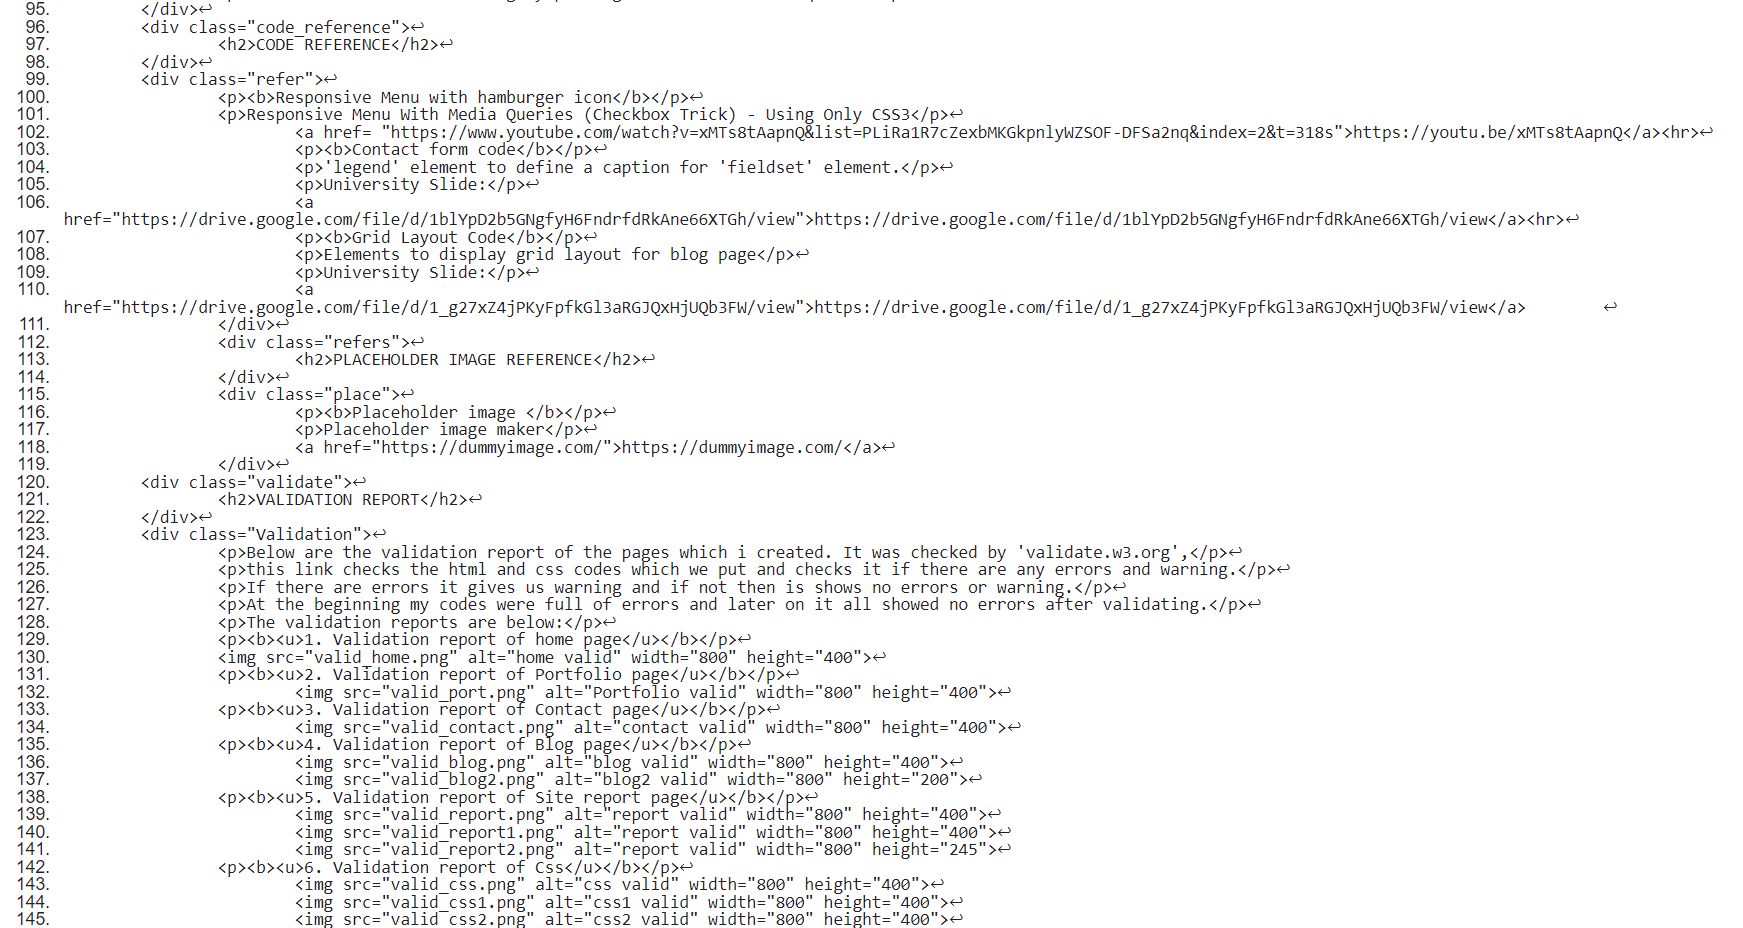
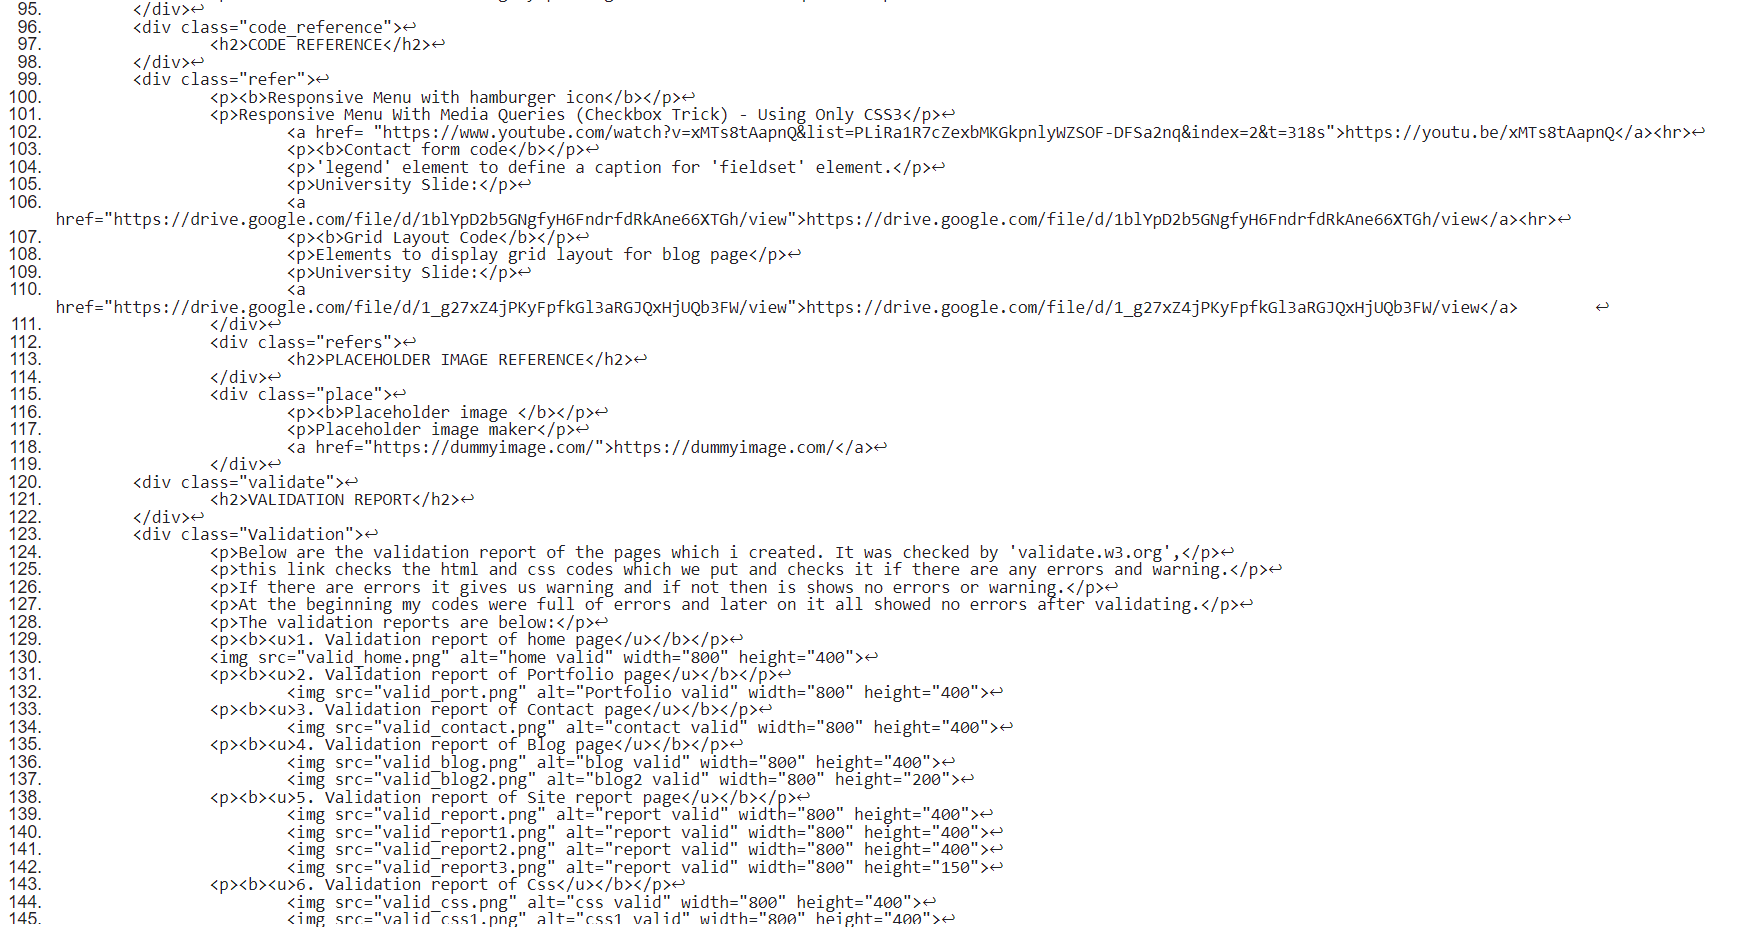
little changes in report.html

Changed region(s): [[0.0, 0.0, 0.9914, 1.0]]

diff --git a/report.html b/report.html
@@ -138,14 +138,15 @@
 		<p><b><u>5. Validation report of Site report page</u></b></p>
 			<img src="valid_report.png" alt="report valid" width="800" height="400">
 			<img src="valid_report1.png" alt="report valid" width="800" height="400">
-			<img src="valid_report2.png" alt="report valid" width="800" height="245">
+			<img src="valid_report2.png" alt="report valid" width="800" height="400">
+			<img src="valid_report3.png" alt="report valid" width="800" height="150">
 		<p><b><u>6. Validation report of Css</u></b></p>
 			<img src="valid_css.png" alt="css valid" width="800" height="400">
 			<img src="valid_css1.png" alt="css1 valid" width="800" height="400">
 			<img src="valid_css2.png" alt="css2 valid" width="800" height="400">
 			<img src="valid_css3.png" alt="css3 valid" width="800" height="400">
 			<img src="valid_css4.png" alt="css4 valid" width="800" height="400">
-			<img src="valid_css6.png" alt="css5 valid" width="800" height="400">
+			<img src="valid_css5.png" alt="css5 valid" width="800" height="400">
 	</div>
 </div>
 </div>
